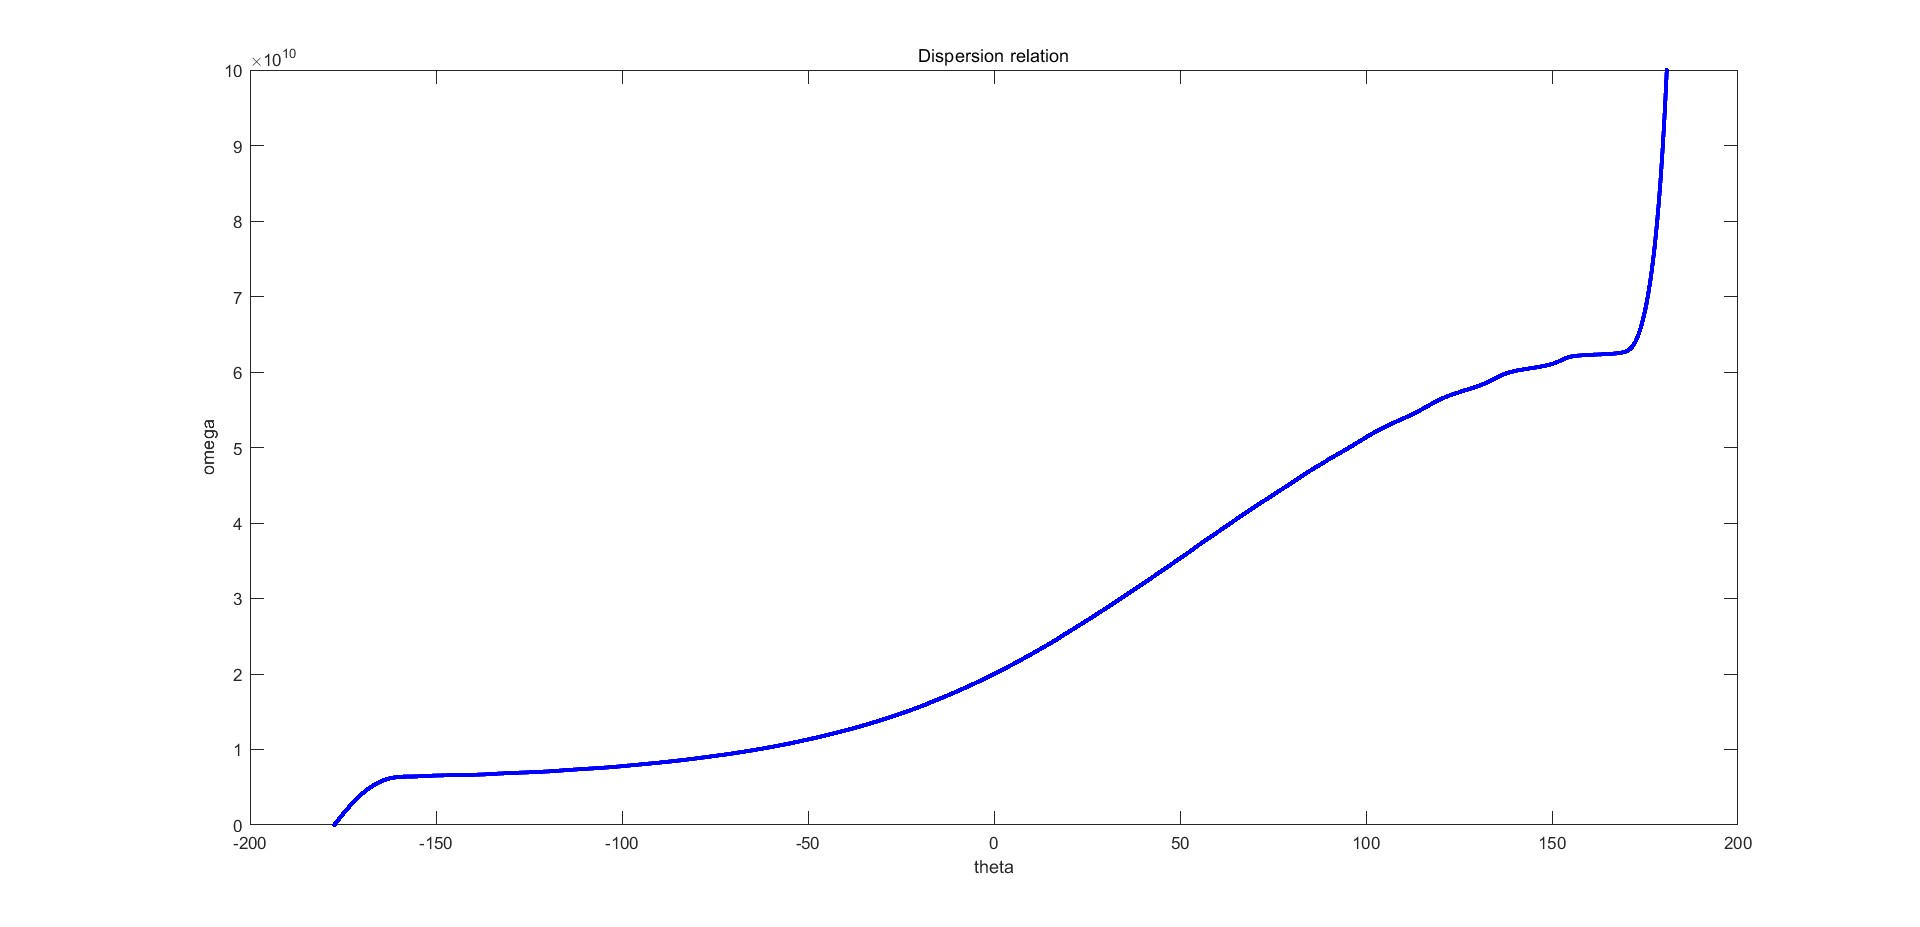
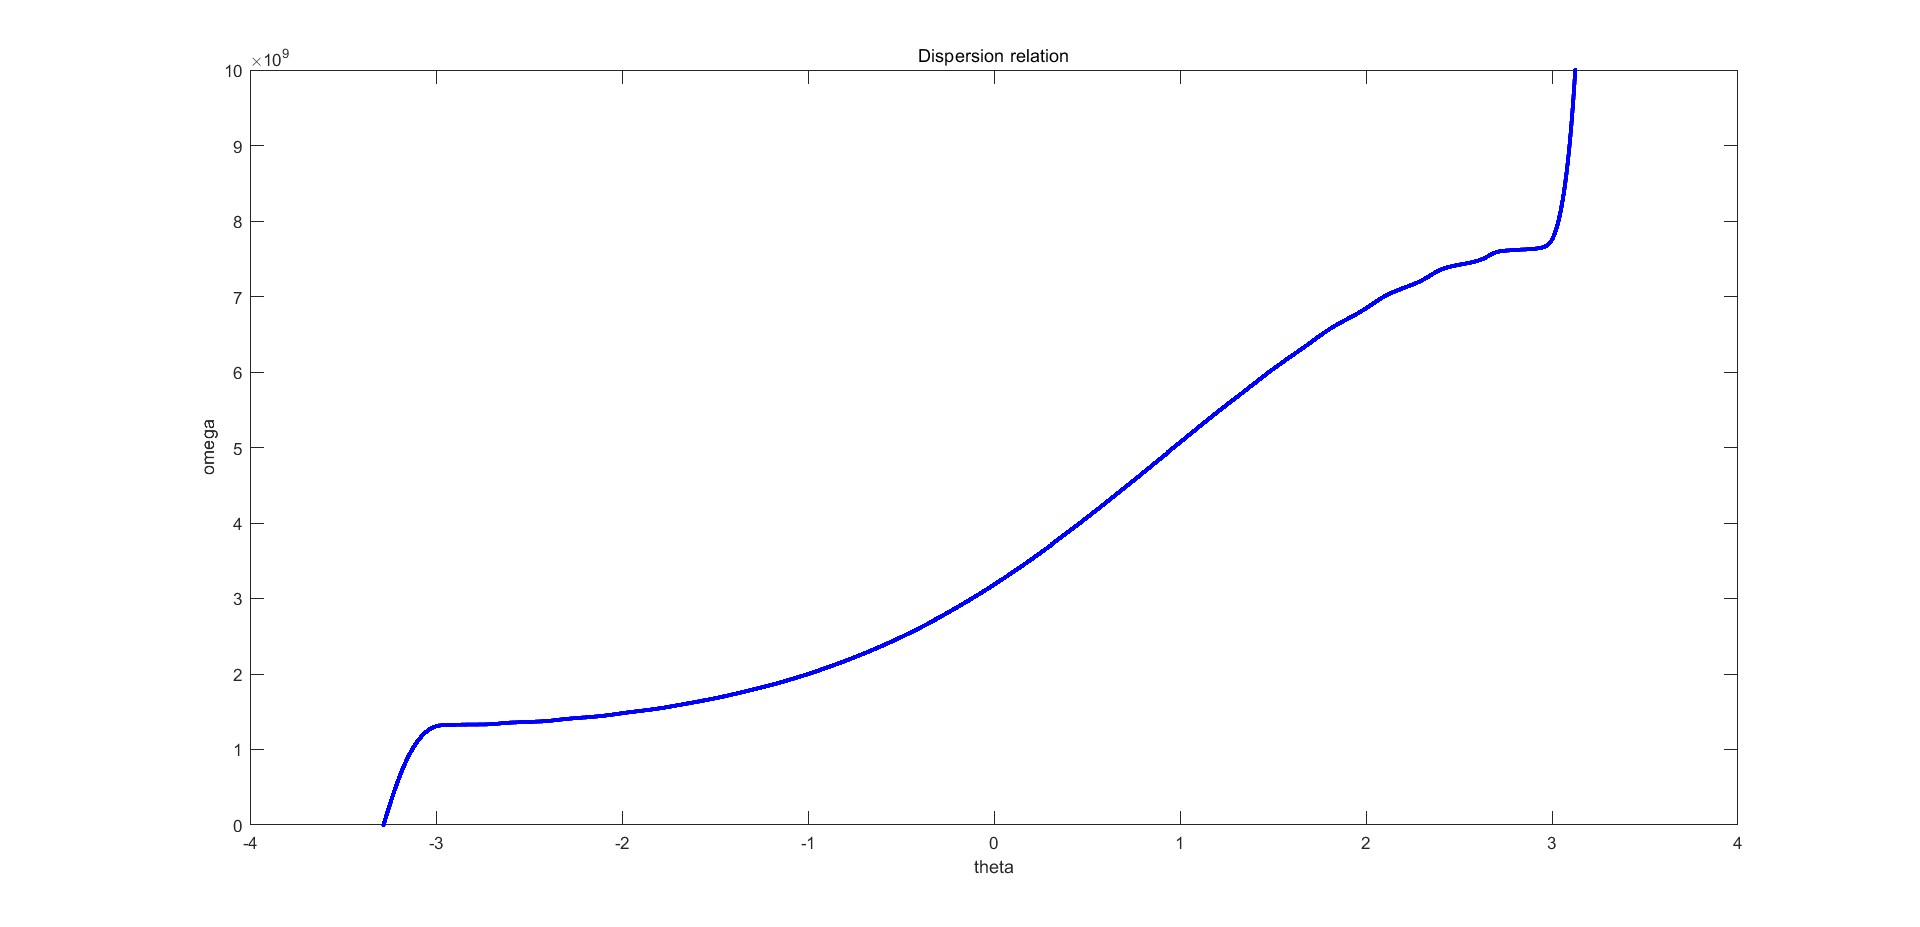
修复一些问题，增加相位原点检查代码

diff --git a/CRLH/Source/TMM.m b/CRLH/Source/TMM.m
@@ -1,4 +1,4 @@
-%% 计算...的色散曲面 使用的方法是传输矩阵法
+% 计算...的色散曲面 使用的方法是传输矩阵法
 
 %初始化
 clear
@@ -6,66 +6,57 @@ clc
 close all
 
 %电路参数
-LR = 2.5 * 1e-9; %右手a长度电感
-CR = 1e-12; %右手a长度电容
-CV = 1e-12;
+LR = 2.5 * 1e-9;
+CR = 1e-12;
+CV = 0.5e-12;
 
-%扫频范围
-fMin = 0;
-fMax = 1e10;
-f = fMin:fMax / 10000:fMax;
-Omega = 2 * pi * fMax;
-omega = 2 * pi * f;
+%主路扫频范围
+f1Min = 0;
+f1Max = 2e9;
+f1 = f1Min:f1Max / 10000:f1Max;
+Omega1 = 2 * pi * f1Max;
+omega1 = 2 * pi * f1;
 
-%增量模型
-Z = 1i * omega * LR;
-Y = 1i * omega * CR;
-C = 1 ./ (1i * omega * CV);
+%调制路扫频范围
+f2 = 300 * 1e6;
+omega2 = 2 * pi * f2;
+
+%主路阻抗
+Z1 = 1i * omega1 * LR;
+Y1 = 1i * omega1 * CR;
+
+%调制路阻抗和电容阻抗
+Z2 = 1i * omega2 * LR;
+Y2 = 1i * omega2 * CR;
+YC1 = 1i * omega1 * CV;
+YC2 = 1i * omega2 * CV;
 Zc = sqrt(LR / CR);
-omega0 = sqrt(1 / (LR * CR));
+
 N = 3; %y方向的层数，此处有三条线，所以是3
-M = 12; %x方向的层数
+M = 25; %x方向的层数
+p = 10 * 1e-3;
+L = p * M;
 
 %传输矩阵
-T = zeros(2 * N, 2 * N, length(omega));
-Th = zeros(2 * N, 2 * N, length(omega));
-Tv = zeros(2 * N, 2 * N, length(omega));
-Ttol = zeros(2 * N, 2 * N, length(omega));
-X = zeros(N, N, length(omega));
+T = zeros(2 * N, 2 * N, length(omega1));
+Th = zeros(2 * N, 2 * N, length(omega1));
+Tv = zeros(2 * N, 2 * N, length(omega1));
+Ttol = zeros(2 * N, 2 * N, length(omega1));
+X = zeros(N, N, length(omega1));
 
 %填充传输矩阵
-for i = 1:length(omega)
-    Th(:, :, i) = [eye(N), Z(i) / 2 * eye(N);
-                   zeros(N), eye(N)];
-    Ya = Y(i) + 1 / C(i);
-    Yb = -1 / C(i);
-    Yc = Y(i) + 2 / C(i);
-
-    for k = 1:N
-
-        for j = 1:N
-
-            if k == j
-                %主对角线
-                if k == 1 || k == N
-                    X(k, j, i) = Ya;
-                else
-                    X(k, j, i) = Yc;
-                end
-
-            end
-
-            if abs(k - j) == 1
-                X(k, j, i) = Yb;
-            end
-
-        end
-
-    end
+for i = 1:length(omega1)
+    Th(:, :, i) = [eye(N), diag([Z2 / 2, Z1(i) / 2, Z2 / 2]);
+                                 zeros(N), eye(N)];
+    X = [
+         Y2 + YC2, -YC2, 0;
+         -YC1(i), Y1(i) + 2 * YC1(i), -YC1(i);
+         0, -YC2, Y2 + YC2
+         ];
 
     Tv(:, :, i) = [
                    eye(N), zeros(N);
-                   X(:, :, i), eye(N)
+                   X, eye(N)
                    ];
     T(:, :, i) = Th(:, :, i) * Tv(:, :, i) * Th(:, :, i);
     Ttol(:, :, i) = T(:, :, i) ^ M;
@@ -77,10 +68,10 @@ Ctol = Ttol(N + 1:2 * N, 1:N, :);
 Dtol = Ttol(N + 1:2 * N, N + 1:2 * N, :);
 
 %Z矩阵
-Ztol = zeros(2 * N, 2 * N, length(omega));
-Stol = zeros(2 * N, 2 * N, length(omega));
+Ztol = zeros(2 * N, 2 * N, length(omega1));
+Stol = zeros(2 * N, 2 * N, length(omega1));
 
-for i = 1:length(omega)
+for i = 1:length(omega1)
     Ztol(:, :, i) = [Atol(:, :, i) * Ctol(:, :, i) ^ -1, Ctol(:, :, i) ^ -1;
                      Ctol(:, :, i) ^ -1, Dtol(:, :, i) * Ctol(:, :, i) ^ -1];
     Stol(:, :, i) = (Ztol(:, :, i) / Zc - eye(2 * N)) * (Ztol(:, :, i) / Zc + eye(2 * N)) ^ -1;
@@ -93,6 +84,15 @@ S63 = squeeze(Stol(6, 3, :));
 S41_phi = angle(S41) .* 180 / pi;
 S52_phi = angle(S52) .* 180 / pi;
 S63_phi = angle(S63) .* 180 / pi;
+unwrapped_S41_phi = unwrap(S41_phi, -360);
+unwrapped_S52_phi = unwrap(S52_phi, -360);
+unwrapped_S63_phi = unwrap(S63_phi, -360);
+beta41 = -unwrapped_S41_phi * pi / 180 / L;
+beta52 = -unwrapped_S52_phi * pi / 180 / L;
+beta63 = -unwrapped_S63_phi * pi / 180 / L;
+theta41 = beta41 * p;
+theta52 = beta52 * p;
+theta63 = beta63 * p;
 S11_dB = 20 * log10(abs(S11));
 S41_dB = 20 * log10(abs(S41));
 S52_dB = 20 * log10(abs(S52));
@@ -101,49 +101,68 @@ S63_dB = 20 * log10(abs(S63));
 %% 画图
 h1 = figure;
 
-subplot(4, 2, 1:2)
-plot(f, S11_dB, '.', 'Color', 'b', 'MarkerSize', 1)
-xlim([0 fMax])
-ylim([-40 10])
-yticks(-40:10:10)
-title('|S11|')
-grid on
-subplot(4, 2, 3)
-plot(f, S41_dB, '.', 'Color', 'b', 'MarkerSize', 1)
-xlim([0 fMax])
+subplot(3, 4, 1)
+plot(f1, S41_dB, 'b.')
+xlim([0 f1Max])
 ylim([-40 10])
 yticks(-40:10:10)
 title('|S41|')
 grid on
-subplot(4, 2, 4)
-plot(f, S41_phi, '-', 'Color', 'b')
-xlim([0 fMax])
+subplot(3, 4, 2)
+plot(f1, S41_phi, '-', 'Color', 'b')
+xlim([0 f1Max])
 ylim([-200 200])
 title('S41 phase')
 grid on
-subplot(4, 2, 5)
-plot(f, S52_dB, '.', 'Color', 'b', 'MarkerSize', 1)
-xlim([0 fMax])
+subplot(3, 4, 3)
+plot(f1, unwrapped_S41_phi, 'r-')
+grid on
+subplot(3, 4, 4)
+plot(theta41, f1, 'r-')
+ylabel('f(Hz)')
+xlabel('beta41*p')
+grid on
+
+subplot(3, 4, 5)
+plot(f1, S52_dB, 'b.')
+xlim([0 f1Max])
 ylim([-40 10])
 yticks(-40:10:10)
 title('|S52|')
 grid on
-subplot(4, 2, 6)
-plot(f, S52_phi, '-', 'Color', 'b')
-xlim([0 fMax])
+subplot(3, 4, 6)
+plot(f1, S52_phi, '-', 'Color', 'b')
+xlim([0 f1Max])
 ylim([-200 200])
 title('S52 phase')
 grid on
-subplot(4, 2, 7)
-plot(f, S63_dB, '.', 'Color', 'b', 'MarkerSize', 1)
-xlim([0 fMax])
+subplot(3, 4, 7)
+plot(f1, unwrapped_S52_phi, 'r-')
+grid on
+subplot(3, 4, 8)
+plot(f1, omega1./beta52', 'r-')
+ylabel('vp')
+xlabel('f')
+grid on
+
+subplot(3, 4, 9)
+plot(f1, S63_dB, 'b.')
+xlim([0 f1Max])
 ylim([-40 10])
 yticks(-40:10:10)
 title('|S63|')
 grid on
-subplot(4, 2, 8)
-plot(f, S63_phi, '-', 'Color', 'b')
-xlim([0 fMax])
+subplot(3, 4, 10)
+plot(f1, S63_phi, '-', 'Color', 'b')
+xlim([0 f1Max])
 ylim([-200 200])
 title('S63 phase')
+grid on
+subplot(3, 4, 11)
+plot(f1, unwrapped_S63_phi, 'r-')
+grid on
+subplot(3, 4, 12)
+plot(theta63, f1, 'r-')
+ylabel('f(Hz)')
+xlabel('beta63*p')
 grid on

diff --git a/CRLH/Source/PeriodicBalancedCRLH.m b/CRLH/Source/PeriodicBalancedCRLH.m
@@ -10,14 +10,15 @@ CR = 1e-12; %右手单位长度电感
 LL = 2.5 * 1e-9; %右手单位长度电感
 CL = 1e-12; %右手单位长度电感
 
-Omega = 1e11;
+Omega = 1e10 * 2 * pi;
 omega = 0:Omega / 100000:Omega; %扫频范围
+f = omega / 2 / pi;
 
-p = 3.75e-4; %网格间距
+p = 10 * 1e-2; %网格间距
 N = 10; %单元个数
 L = p * N; %网格长度
 
-Z = 1i * omega * LR / 2 + 1 ./ (1i * 2 * omega * CL);
+Z = 1i * omega * LR + 1 ./ (1i * omega * CL);
 Y = 1i * omega * CR + 1 ./ (1i * omega * LL);
 
 Zc = sqrt(Z ./ Y);
@@ -45,8 +46,8 @@ h1 = figure;
 hold on
 S11_dB = 20 * log10(abs(S11));
 S21_dB = 20 * log10(abs(S21));
-plot(omega, S11_dB, '-', 'Color', 'b')
-plot(omega, S21_dB, '-', 'Color', 'r')
+plot(f, S11_dB, '-', 'Color', 'b')
+plot(f, S21_dB, '-', 'Color', 'r')
 ylim([-60 10])
 xlabel('omega')
 ylabel('magnitude')
@@ -58,7 +59,7 @@ h2 = figure;
 hold on
 S11_phi = angle(S11) .* 180 / pi;
 S21_phi = angle(S21) .* 180 / pi;
-plot(omega, S21_phi, '-', 'Color', 'b')
+plot(f, S21_phi, '-', 'Color', 'b')
 xlabel('omega')
 ylabel('phase')
 title('S21 phase')
@@ -70,18 +71,18 @@ unwrappedS21_phi = unwrap(S21_phi, -360);
 [~, idx] = min(abs(omega0 - omega));
 val = mean([unwrappedS21_phi(idx - 1), unwrappedS21_phi(idx + 1)]);
 unwrappedS21_phi = unwrappedS21_phi - val;
-plot(omega, unwrappedS21_phi, '-', 'Color', 'b')
+plot(f, unwrappedS21_phi, '-', 'Color', 'b')
 xlabel('omega')
 ylabel('phase')
 title('unwrapped S21 phase')
 
 %%fig3.20(d)
-beta = -unwrappedS21_phi / L; %相位常数
+beta = -unwrappedS21_phi * pi / 180 / L; %相位常数
 alpha = -log(abs(S21)) / L; %衰减常数
 theta = beta * p; %电长度
 
 h4 = figure;
-plot(theta, omega, '.', 'color', 'b')
+plot(theta, f, '.', 'color', 'b')
 xlabel('theta')
 ylabel('omega')
 title('Dispersion relation')
